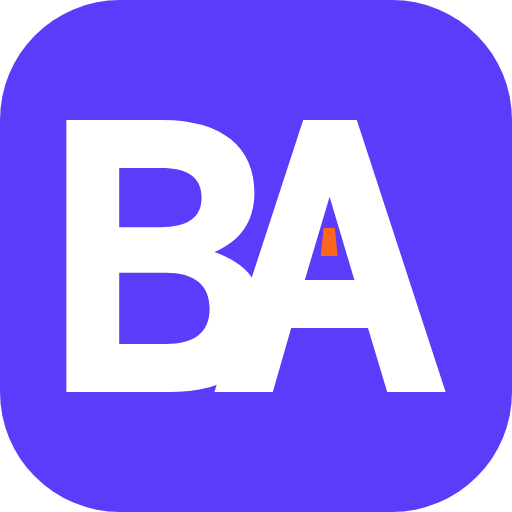
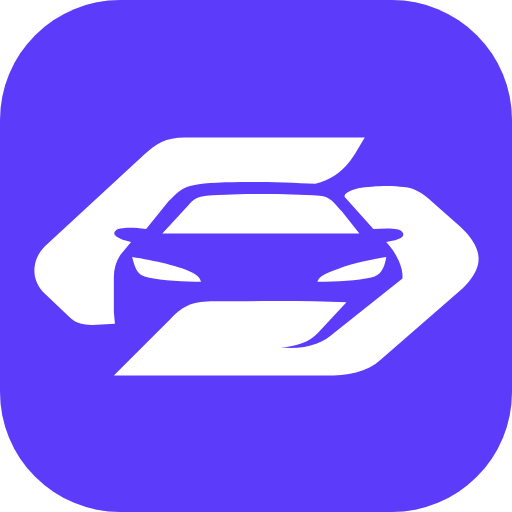
Apply selected Bitim identity across marketplace branding

Changed region(s): [[0.0625, 0.2188, 0.9375, 0.7812]]

diff --git a/resources/css/app.css b/resources/css/app.css
@@ -112,10 +112,10 @@
 .site-login [data-icon] { width: 15px; height: 15px; }
 .site-login:hover, .site-location:hover { color: var(--market-purple); }
 .site-header-main { display: flex; align-items: center; gap: 22px; min-height: 75px; }
-.site-brand { flex-shrink: 0; display: inline-flex; align-items: center; gap: 10px; width: 214px; }
-.site-brand-mark { display: block; width: 41px; height: 41px; flex: none; object-fit: contain; }
-.site-brand-name { flex: none; color: #12102a; font-size: 32px; font-weight: 700; letter-spacing: -.7px; white-space: nowrap; }
-.site-brand-name span { font-weight: 400; }
+.site-brand { flex-shrink: 0; display: inline-flex; align-items: center; gap: 10px; width: 236px; }
+.site-brand-mark { display: block; width: 58px; height: 36px; flex: none; object-fit: contain; }
+.site-brand-name { flex: none; color: #12102a; font-size: 32px; font-weight: 800; letter-spacing: -.7px; white-space: nowrap; }
+.site-brand-name span { font-weight: inherit; }
 .site-catalog-button { display: inline-flex; align-items: center; justify-content: center; flex-shrink: 0; gap: 11px; min-height: 46px; padding: 0 20px; border-radius: 10px; color: white; background: var(--market-purple); font-size: 16px; font-weight: 500; transition: background .15s; }
 .site-catalog-button svg { width: 19px; height: 19px; }
 .site-catalog-button:hover { background: var(--market-purple-hover); }
@@ -145,8 +145,8 @@
 .site-footer { margin-top: 64px; border-top: 1px solid var(--market-border); background: white; }
 .site-footer-inner { display: flex; flex-wrap: wrap; align-items: center; justify-content: space-between; gap: 20px; min-height: 100px; padding-top: 24px; padding-bottom: 24px; color: #736d80; font-size: 12px; }
 .site-footer-brand { display: inline-flex; align-items: center; color: #393546; font-size: 19px; font-weight: 800; letter-spacing: -.65px; }
-.site-footer-brand > img { display: block; flex: none; width: 28px; height: 28px; margin-right: 8px; object-fit: contain; }
-.site-footer-brand span { color: var(--market-purple); }
+.site-footer-brand > img { display: block; flex: none; width: 40px; height: 24px; margin-right: 8px; object-fit: contain; }
+.site-footer-brand span { color: inherit; }
 .site-footer-brand small { margin-left: 12px; color: #736d80; font-size: 11px; font-weight: 400; letter-spacing: 0; }
 .site-footer-inner > a:last-child { color: var(--market-purple); font-weight: 600; }
 .site-help-dialog { position: fixed; inset: 0; width: min(560px, calc(100vw - 32px)); max-height: calc(100dvh - 40px); margin: auto; padding: 0; overflow-y: auto; border: 1px solid var(--market-border); border-radius: 16px; background: white; color: var(--market-ink); box-shadow: 0 24px 80px rgb(23 16 55 / .2); }
@@ -195,7 +195,7 @@
     .site-header-main { gap: 16px; }
     .site-brand { width: auto; }
     .site-brand-name { font-size: 23px; }
-    .site-brand-mark { width: 41px; height: 41px; font-size: 18px; }
+    .site-brand-mark { width: 54px; height: 34px; }
     .site-header-actions { gap: 14px; }
     .site-search input { font-size: 11px; }
     .site-catalog-button { padding: 0 15px; }
@@ -224,7 +224,7 @@
     .site-location-picker { margin-left: 0; }
     .site-language { margin-left: 0; }
     .site-brand { gap: 7px; }
-    .site-brand-mark { width: 35px; height: 35px; font-size: 16px; }
+    .site-brand-mark { width: 48px; height: 30px; }
     .site-brand-name { font-size: 21px; letter-spacing: -1px; }
     .site-header-main { gap: 11px 8px; padding-top: 15px; padding-bottom: 16px; }
     .site-post-button { min-height: 38px; gap: 3px; padding: 0 9px; font-size: 10px; border-radius: 8px; }
@@ -243,5 +243,8 @@
     .site-saved-dialog { inset: 0; width: 100%; height: 100dvh; border: 0; border-radius: 0; }
 }
 @media (max-width: 379px) {
+    .site-brand { gap: 6px; }
+    .site-brand-mark { width: 44px; height: 28px; }
+    .site-brand-name { font-size: 19px; letter-spacing: -.7px; }
     .site-category-link { flex-direction: column; gap: 3px; height: 52px; font-size: 10px; }
 }

diff --git a/resources/css/phone-auth.css b/resources/css/phone-auth.css
@@ -1,8 +1,8 @@
 .phone-auth-page { padding-top:42px; padding-bottom:40px; color:#17122e; }
 .phone-auth-layout { display:grid; grid-template-columns:minmax(0,1fr) minmax(0,440px); gap:76px; align-items:center; width:min(100%,1050px); margin-inline:auto; }
 .phone-auth-benefits { position:relative; isolation:isolate; display:flex; flex-direction:column; gap:42px; min-height:520px; padding:38px 34px; overflow:hidden; border-radius:24px; background:#f0ebff; }
-.phone-auth-brand { display:inline-flex; align-items:center; gap:12px; width:fit-content; font-size:24px; font-weight:750; letter-spacing:-.8px; }
-.phone-auth-brand img { width:48px; height:48px; flex:none; }
+.phone-auth-brand { display:inline-flex; align-items:center; gap:12px; width:fit-content; font-size:24px; font-weight:800; letter-spacing:-.8px; }
+.phone-auth-brand img { display:block; width:64px; height:40px; flex:none; object-fit:contain; }
 .phone-auth-brand strong { font-weight:400; }
 .phone-auth-eyebrow { display:block; margin-bottom:14px; color:#68558d; font-size:10px; font-weight:750; letter-spacing:1.6px; }
 .phone-auth-benefits h2 { font-size:43px; line-height:1.12; font-weight:800; letter-spacing:-1.4px; }

diff --git a/resources/views/layouts/app.blade.php b/resources/views/layouts/app.blade.php
@@ -9,8 +9,8 @@
             $brandWords = explode(' ', $brandName, 2);
             $pageTitle = html_entity_decode(trim($__env->yieldContent('title', $brandName)), ENT_QUOTES | ENT_HTML5, 'UTF-8');
             $pageDescription = html_entity_decode(trim($__env->yieldContent('description', $brandName.' — avtomobillar, ehtiyot qismlar va moto. Sotuvchilar va xaridorlar uchun yagona marketplace.')), ENT_QUOTES | ENT_HTML5, 'UTF-8');
-            $brandVersion = '20261024c';
-            $shareImage = asset('brand/buxoroavto-share.png').'?v='.$brandVersion;
+            $brandVersion = '20261024d-bitim';
+            $shareImage = asset('brand/avto-market-share.png').'?v='.$brandVersion;
         @endphp
         <title>{{ $pageTitle }}</title>
         <meta name="description" content="{{ $pageDescription }}">
@@ -70,7 +70,7 @@
             </div>
             <div class="shell site-header-main">
                 <a href="{{ route('home') }}" class="site-brand" aria-label="{{ $brandName }} bosh sahifa">
-                    <img class="site-brand-mark" src="{{ asset('brand/buxoroavto-mark.svg') }}?v={{ $brandVersion }}" width="41" height="41" alt="" aria-hidden="true" decoding="async">
+                    <img class="site-brand-mark" src="{{ asset('brand/avto-market-mark.svg') }}?v={{ $brandVersion }}" width="58" height="36" alt="" aria-hidden="true" decoding="async">
                     <span class="site-brand-name">{{ $brandWords[0] }}@isset($brandWords[1])<span> {{ $brandWords[1] }}</span>@endisset</span>
                 </a>
                 <a href="{{ route('listings') }}" class="site-catalog-button">
@@ -103,7 +103,7 @@
         </header>
         @if ($errors->any() && !$__env->hasSection('local-form-errors'))<div role="alert" class="shell pt-5"><div class="alert alert-error"><ul>@foreach ($errors->all() as $error)<li>{{ $error }}</li>@endforeach</ul></div></div>@endif
         @yield('content')
-        <footer class="site-footer"><div class="shell site-footer-inner"><a href="{{ route('home') }}" class="site-footer-brand"><img src="{{ asset('brand/buxoroavto-mark.svg') }}?v={{ $brandVersion }}" width="28" height="28" alt="" decoding="async">{{ $brandWords[0] }}@isset($brandWords[1])<span>&nbsp;{{ $brandWords[1] }}</span>@endisset<small>© {{ now()->year }}</small></a><p>Avtomobillar, ehtiyot qismlar va moto — hammasi bir joyda.</p><a href="{{ route('cabinet.listing.create') }}">E’lon joylashtirish <span aria-hidden="true">↗</span></a></div></footer>
+        <footer class="site-footer"><div class="shell site-footer-inner"><a href="{{ route('home') }}" class="site-footer-brand"><img src="{{ asset('brand/avto-market-mark.svg') }}?v={{ $brandVersion }}" width="40" height="24" alt="" decoding="async">{{ $brandWords[0] }}@isset($brandWords[1])<span>&nbsp;{{ $brandWords[1] }}</span>@endisset<small>© {{ now()->year }}</small></a><p>Avtomobillar, ehtiyot qismlar va moto — hammasi bir joyda.</p><a href="{{ route('cabinet.listing.create') }}">E’lon joylashtirish <span aria-hidden="true">↗</span></a></div></footer>
         <dialog id="site-help-dialog" class="site-help-dialog" x-ref="helpDialog" aria-labelledby="site-help-title"><div class="site-help-heading"><h2 id="site-help-title">{{ $brandName }} yordam</h2><form method="dialog"><button type="submit" aria-label="Yordam oynasini yopish">×</button></form></div><div class="site-help-content"><h3>Kerakli taklifni qanday topaman?</h3><p>Qidiruvga model yoki detal nomini yozing. Katalogda yo‘nalish, holat, shahar va narx bo‘yicha filtrlang.</p><h3>E’lonni qanday joylashtiraman?</h3><p>Akkauntingizga kiring, “E’lon berish” tugmasini bosing va ma’lumotlarni to‘ldiring. Qoralamani saqlash yoki moderatsiyaga yuborish mumkin.</p><h3>Saqlangan e’lonlar qayerda?</h3><p>E’londagi yurak belgisini bosing. Saqlanganlar shu brauzerda turadi.</p><div class="site-help-actions"><a href="{{ route('listings') }}" class="btn btn-brand">Katalogni ochish</a><a href="{{ route('cabinet') }}" class="btn btn-ghost">Kabinetga o‘tish</a></div></div></dialog>
         <dialog id="saved-listings" class="site-saved-dialog" data-saved-panel hidden aria-labelledby="saved-listings-title" aria-describedby="saved-listings-description">
             <div class="site-saved-heading"><div><h2 id="saved-listings-title">Saqlangan e’lonlar</h2><p id="saved-listings-description">Shu brauzerda saqlangan e’lonlar.</p></div><button type="button" data-saved-close aria-label="Saqlanganlar oynasini yopish"><svg viewBox="0 0 24 24" fill="none" stroke="currentColor" stroke-width="1.8" aria-hidden="true"><path d="m6 6 12 12M18 6 6 18"/></svg></button></div>

diff --git a/resources/views/auth/benefits.blade.php b/resources/views/auth/benefits.blade.php
@@ -1,5 +1,5 @@
 <aside class="phone-auth-benefits" aria-label="{{ config('brand.name') }} kabineti">
-    <a href="{{ route('home') }}" class="phone-auth-brand"><img src="{{ asset('brand/buxoroavto-mark.svg') }}?v=20261024b" alt="" width="48" height="48"><span>{{ config('brand.name') }}</span></a>
+    <a href="{{ route('home') }}" class="phone-auth-brand"><img src="{{ asset('brand/avto-market-mark.svg') }}?v=20261024d-bitim" alt="" width="64" height="40"><span>{{ config('brand.name') }}</span></a>
     <div><span class="phone-auth-eyebrow">SOTUVNI SHU YERDAN BOSHLANG</span><h2>O‘z xaridoringizni<br>toping.</h2><p>Avtomobil, ehtiyot qism va moto — hammasi bir joyda.</p></div>
     <ul><li><span aria-hidden="true">✓</span>E’lonlaringizni bir kabinetdan boshqaring</li><li><span aria-hidden="true">✓</span>Shaxsiy sotuvchi yoki do‘kon sifatida ishlang</li><li><span aria-hidden="true">✓</span>Narx, surat va mavjudlikni yangilang</li></ul>
     <div class="phone-auth-road" aria-hidden="true"><span></span></div>

diff --git a/README.md b/README.md
@@ -2,7 +2,9 @@
 
 Avto platformasining backend va Blade interfeysi. Vizitka saytidan alohida Laravel ilovasi va Git repozitoriysi.
 
-Hozirgi ochiq nom `Avto market`; `MARKETPLACE_BRAND_NAME` (`config/brand.php`) orqali o'zgartiriladi. Asosiy bo'limlar uchta: avtomobillar, ehtiyot qismlar va moto. Arenda avtomobillar ichidagi taklif turidir. Harfsiz belgi variantlari `/brand/concepts/board.html` da ko'rsatiladi; yakuniy belgi tanlanguncha faol ikonka alohida saqlanadi.
+Hozirgi ochiq nom `Avto market`; `MARKETPLACE_BRAND_NAME` (`config/brand.php`) orqali o'zgartiriladi. Asosiy bo'limlar uchta: avtomobillar, ehtiyot qismlar va moto. Arenda avtomobillar ichidagi taklif turidir.
+
+Tanlangan logotip — professional taqdimotdagi 4-variant, `Bitim`: avtomobil va ikki yo'nalishdagi savdo harakati. SVG manbasi `public/brand/avto-market-mark.svg`; favicon, Apple/Android ikonkalari va ulashish rasmi `node scripts/generate-brand-assets.mjs` bilan qayta yaratiladi. Avvalgi belgi variantlari `/brand/concepts/board.html` da saqlangan.
 
 Marketplace backend: mashinalar (yangi/bu, sotuv/arenda), avtosalonlar, zapchastlar va do'konlar, moto (velosipedsiz). Flutter uchun versiyalangan API, tokenli kirish, e'lonlar, rasmlar va moderatsiya mavjud. API shartnomasi va misollar: [docs/api.md](docs/api.md).
 
